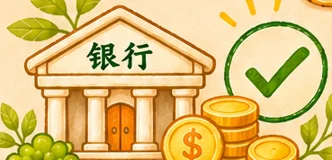
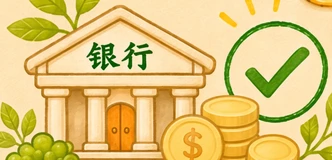
Publish three approved picturebook art refinements

diff --git a/sw.js b/sw.js
@@ -1,4 +1,4 @@
-const CACHE='wealth-life-finance-20261122-saves1';
+const CACHE='wealth-life-picturebook-20261122';
 const ASSETS=["./assets/finance/insurance-illustrations.webp","./assets/career-events-20261116/reserve-reference-header.webp","./assets/career-events-20261116/reserve-option-a.webp","./assets/career-events-20261116/reserve-option-b.webp","./assets/career-events-20261116/bakery-reference-header.webp","./assets/career-events-20261116/bakery-option-a.webp","./assets/career-events-20261116/bakery-option-b.webp","./assets/career-events-20261116/bakery-option-c.webp","./assets/career-events-20261116/partner-bakery-result.webp","./assets/career-events-20261116/bakery-result-pastry.webp","./assets/career-events-20261116/order-a-clock.webp","./assets/career-events-20261116/order-a-badge.webp","./assets/career-events-20261116/order-paper-strip.webp","./assets/career-events-20261116/order-yellow-wash.webp","./assets/career-events-20261116/order-reference-header.webp","./assets/career-events-20261116/order-option-b.webp","./assets/career-events-20261116/order-option-c.webp","./assets/career-events-20261116/machine-option-a.webp","./assets/career-events-20261116/machine-option-b.webp","./assets/career-events-20261116/partner-reserve.webp?v=20261119-painted2","./assets/career-events-20261116/partner-machine.webp?v=20261119-handpainted3","./assets/career-events-20261116/partner-beans.webp?v=20261119-painted2","./assets/career-events-20261116/partner-order.webp?v=20261119-reference6","./assets/career-events-20261116/partner-bakery.webp?v=20261119-painted2","./owner-housing.js?v=2","./etf-market-data.js?v=1", "./etf-market.js?v=2", "./etf-pages.js?v=20261122-finance-saves1", "./etf-pages.css?v=1", "./assets/etf/detail.webp", "./assets/etf/market.webp", "./assets/etf/settings.webp","./assets/bank-loans/receipt.webp", "./assets/bank-loans/repay.webp", "./assets/bank-loans/shortfall.webp","./home-insurance.css?v=20261122-insurance-art2", "./home-insurance.js?v=20261122-finance-saves1", "./assets/home-insurance/branch.webp", "./assets/home-insurance/claim-basic.webp", "./assets/home-insurance/claim-full.webp", "./assets/home-insurance/confirm.webp", "./assets/home-insurance/electrical.webp", "./assets/home-insurance/hail.webp", "./assets/home-insurance/kitchen.webp", "./assets/home-insurance/menu.webp", "./assets/home-insurance/plans.webp", "./assets/home-insurance/policy.webp", "./assets/home-insurance/renter.webp", "./assets/home-insurance/wind.webp","./relationship-avatars.js?v=20261113-avatars1", "./assets/relationships/avatars/manager-female-01.webp", "./assets/relationships/avatars/manager-female-02.webp", "./assets/relationships/avatars/manager-female-03.webp", "./assets/relationships/avatars/manager-female-04.webp", "./assets/relationships/avatars/manager-female-05.webp", "./assets/relationships/avatars/manager-female-06.webp", "./assets/relationships/avatars/manager-male-01.webp", "./assets/relationships/avatars/manager-male-02.webp", "./assets/relationships/avatars/manager-male-03.webp", "./assets/relationships/avatars/manager-male-04.webp", "./assets/relationships/avatars/manager-male-05.webp", "./assets/relationships/avatars/manager-male-06.webp", "./assets/relationships/avatars/coworker-female-01.webp", "./assets/relationships/avatars/coworker-female-02.webp", "./assets/relationships/avatars/coworker-female-03.webp", "./assets/relationships/avatars/coworker-female-04.webp", "./assets/relationships/avatars/coworker-female-05.webp", "./assets/relationships/avatars/coworker-female-06.webp", "./assets/relationships/avatars/coworker-male-01.webp", "./assets/relationships/avatars/coworker-male-02.webp", "./assets/relationships/avatars/coworker-male-03.webp", "./assets/relationships/avatars/coworker-male-04.webp", "./assets/relationships/avatars/coworker-male-05.webp", "./assets/relationships/avatars/coworker-male-06.webp", "./assets/relationships/avatars/classmate-female-01.webp", "./assets/relationships/avatars/classmate-female-02.webp", "./assets/relationships/avatars/classmate-female-03.webp", "./assets/relationships/avatars/classmate-female-04.webp", "./assets/relationships/avatars/classmate-female-05.webp", "./assets/relationships/avatars/classmate-female-06.webp", "./assets/relationships/avatars/classmate-male-01.webp", "./assets/relationships/avatars/classmate-male-02.webp", "./assets/relationships/avatars/classmate-male-03.webp", "./assets/relationships/avatars/classmate-male-04.webp", "./assets/relationships/avatars/classmate-male-05.webp", "./assets/relationships/avatars/classmate-male-06.webp", "./assets/relationships/avatars/petfriend-female-01.webp", "./assets/relationships/avatars/petfriend-female-02.webp", "./assets/relationships/avatars/petfriend-female-03.webp", "./assets/relationships/avatars/petfriend-female-04.webp", "./assets/relationships/avatars/petfriend-female-05.webp", "./assets/relationships/avatars/petfriend-female-06.webp", "./assets/relationships/avatars/petfriend-male-01.webp", "./assets/relationships/avatars/petfriend-male-02.webp", "./assets/relationships/avatars/petfriend-male-03.webp", "./assets/relationships/avatars/petfriend-male-04.webp", "./assets/relationships/avatars/petfriend-male-05.webp", "./assets/relationships/avatars/petfriend-male-06.webp", "./assets/relationships/avatars/landlord-female-01.webp", "./assets/relationships/avatars/landlord-female-02.webp", "./assets/relationships/avatars/landlord-female-03.webp", "./assets/relationships/avatars/landlord-female-04.webp", "./assets/relationships/avatars/landlord-female-05.webp", "./assets/relationships/avatars/landlord-female-06.webp", "./assets/relationships/avatars/landlord-male-01.webp", "./assets/relationships/avatars/landlord-male-02.webp", "./assets/relationships/avatars/landlord-male-03.webp", "./assets/relationships/avatars/landlord-male-04.webp", "./assets/relationships/avatars/landlord-male-05.webp", "./assets/relationships/avatars/landlord-male-06.webp"].concat(["./relationship-pages.css?v=20261113-review1","./relationship-rules.js?v=20261113-review1","./relationship-ui.js?v=20261113-review1","./relationship-life-cards.js?v=20261115-career1", "./relationship-card-data.js?v=20261115-career1", "./relationship-life-ui.js?v=20261121-picturebook1","./assets/relationships/contact-list-20261110.webp","./assets/relationships/contact-detail-20261110.webp","./assets/relationships/manager-experience-20261110.webp","./assets/fonts/MaShanZheng-Regular.ttf","./assets/pets/vet-reminder-dog-20261107.webp","./assets/pets/vet-reminder-cat-20261107.webp","./assets/pets/vet-reminder-tortoise-20261107.webp","./assets/pets/vet-reminder-chameleon-20261107.webp","./assets/pets/vet-reminder-gecko-20261107.webp","./assets/pets/vet-reminder-spider-20261107.webp","./assets/pets/vet-reminder-crocodile-20261107.webp","./pet-insurance.js?v=20261107-petpremium55","./assets/pets/insurance-dog-20261106.webp","./assets/pets/insurance-cat-20261106.webp","./assets/pets/insurance-tortoise-20261106.webp","./assets/pets/insurance-chameleon-20261106.webp","./assets/pets/insurance-gecko-20261106.webp","./assets/pets/insurance-spider-20261106.webp","./assets/pets/insurance-crocodile-20261106.webp","./assets/pets/annual-dog-20261106.webp","./assets/pets/annual-cat-20261106.webp","./assets/pets/annual-tortoise-20261106.webp","./assets/pets/annual-chameleon-20261106.webp","./assets/pets/annual-gecko-20261106.webp","./assets/pets/annual-spider-20261106.webp","./assets/pets/annual-crocodile-20261106.webp","./assets/pets/monthly-fee-20261106.webp","./pet-basic-fees.js?v=20261106-petaudit1","./assets/pets/detail-actions-20261106.webp","./assets/pets/insurance-entry-20261106.webp","./pet-event-cards.js?v=20261107-spider120", "./assets/pets/events/companion-dog-20261105.webp", "./assets/pets/events/dog-unwell-20261106.webp", "./assets/pets/events/dog-social-20261106.webp", "./assets/pets/events/dog-surprise-20261106.webp", "./assets/pets/events/dog-accident-20261106.webp", "./assets/pets/events/companion-cat-20261105.webp", "./assets/pets/events/cat-unwell-20261106.webp", "./assets/pets/events/cat-social-20261106.webp", "./assets/pets/events/cat-surprise-20261106.webp", "./assets/pets/events/cat-accident-20261106.webp", "./assets/pets/events/companion-crocodile-20261105.webp", "./assets/pets/events/crocodile-unwell-20261106.webp", "./assets/pets/events/crocodile-social-20261106.webp", "./assets/pets/events/crocodile-surprise-20261106.webp", "./assets/pets/events/crocodile-accident-20261106.webp", "./assets/pets/events/companion-gecko-20261105.webp", "./assets/pets/events/gecko-unwell-20261106.webp", "./assets/pets/events/gecko-social-20261106.webp", "./assets/pets/events/gecko-surprise-20261106.webp", "./assets/pets/events/gecko-accident-20261106.webp", "./assets/pets/events/companion-spider-20261105.webp", "./assets/pets/events/spider-unwell-20261106.webp", "./assets/pets/events/spider-social-20261106.webp", "./assets/pets/events/spider-surprise-20261106.webp", "./assets/pets/events/spider-accident-20261106.webp", "./assets/pets/events/companion-tortoise-20261105.webp", "./assets/pets/events/tortoise-unwell-20261106.webp", "./assets/pets/events/tortoise-social-20261106.webp", "./assets/pets/events/tortoise-surprise-20261106.webp", "./assets/pets/events/tortoise-accident-20261106.webp", "./assets/pets/events/companion-chameleon-20261105.webp", "./assets/pets/events/chameleon-unwell-20261106.webp", "./assets/pets/events/chameleon-social-20261106.webp", "./assets/pets/events/chameleon-surprise-20261106.webp", "./assets/pets/events/chameleon-accident-20261106.webp"].concat(["./pet-events.js?v=20261120-map-life2", "./pet-events-ui.js?v=20261120-map-life2", "./pet-events.css?v=20261106-pet35", "./assets/pets/events/companion-spider-20261105.webp", "./assets/pets/events/companion-gecko-20261105.webp", "./assets/pets/events/companion-tortoise-20261105.webp", "./assets/pets/events/mishap-20261105.webp", "./assets/pets/events/companion-crocodile-20261105.webp", "./assets/pets/events/companion-cat-20261105.webp", "./assets/pets/events/unwell-20261105.webp", "./assets/pets/events/companion-chameleon-20261105.webp", "./assets/pets/events/social-20261105.webp", "./assets/pets/events/injury-20261105.webp", "./assets/pets/events/companion-dog-20261105.webp"].concat(["./assets/pets/adoption-card-20261105.webp","./assets/pets/adoption-paper-20261105.webp","./assets/home/pet-selection-no-prices-20261105.webp", "./pet-pages.js?v=20261122-insurance-art1", "./pet-pages.css?v=20261113-review1", "./assets/pets/adoption-dog-20261104.webp", "./assets/pets/clean-cat-20261104.webp", "./assets/pets/clean-chameleon-20261104.webp", "./assets/pets/clean-crocodile-20261104.webp", "./assets/pets/clean-dog-20261104.webp", "./assets/pets/clean-gecko-20261104.webp", "./assets/pets/clean-spider-20261104.webp", "./assets/pets/clean-tortoise-20261104.webp", "./assets/pets/detail-20261104.webp", "./assets/pets/overview-20261104.webp", "./assets/pets/success-cat-20261104.webp", "./assets/pets/success-chameleon-20261104.webp", "./assets/pets/success-crocodile-20261104.webp", "./assets/pets/success-dog-20261104.webp", "./assets/pets/success-gecko-20261104.webp", "./assets/pets/success-spider-20261104.webp", "./assets/pets/success-tortoise-20261104.webp"].concat(["./pet-adoption-entry.js?v=20261107-petdeadline1","./pet-adoption-entry.css?v=20261105-petcard2","./assets/home/pet-selection-seven-20261104.webp","./assets/home/family-corgi-20261104.webp","./assets/home/shared-corgi-20261104.webp","./assets/home/studio-corgi-20261104.webp","./assets/home/apartment-corgi-20261104.webp","./apartment-events.js?v=20261104-apartment1", "./assets/apartment/back-20261104.webp", "./assets/apartment/bricks-20261104.webp", "./assets/apartment/clean-20261104.webp", "./assets/apartment/company-20261104.webp", "./assets/apartment/display-20261104.webp", "./assets/apartment/exercise-20261104.webp", "./assets/apartment/flowers-20261104.webp", "./assets/apartment/knock-20261104.webp", "./assets/apartment/lastbus-20261104.webp", "./assets/apartment/lighting-20261104.webp", "./assets/apartment/pajamas-20261104.webp", "./assets/apartment/party-20261104.webp", "./assets/apartment/sing-20261104.webp", "./assets/apartment/spill-20261104.webp"].concat(["./studio-events.js?v=20261103-studio1", "./assets/studio/back-20261103.webp", "./assets/studio/call-20261103.webp", "./assets/studio/cinema-20261103.webp", "./assets/studio/cook-20261103.webp", "./assets/studio/corner-20261103.webp", "./assets/studio/fridge-20261103.webp", "./assets/studio/gaming-20261103.webp", "./assets/studio/keepsake-20261103.webp", "./assets/studio/keys-20261103.webp", "./assets/studio/morning-20261103.webp", "./assets/studio/noise-20261103.webp", "./assets/studio/rain-20261103.webp", "./assets/studio/tea-20261103.webp"].concat(["./assets/shared/back-20261102.webp","./assets/shared/toolbox-shop-20261102.webp","./assets/shared/toolbox-neighbor-20261102.webp","./assets/shared/chat-night-20261102.webp","./assets/shared/meal-love-20261102.webp","./assets/shared/ride-b4-20261102.webp","./housing-time-debt.js?v=20261104-apartment1","./shared-events.js?v=20261102-toolbox1", "./assets/shared/chat-20261102.webp", "./assets/shared/clean-20261102.webp", "./assets/shared/cook-20261102.webp", "./assets/shared/games-20261102.webp", "./assets/shared/guest-20261102.webp", "./assets/shared/leak-20261102.webp", "./assets/shared/meal-20261102.webp", "./assets/shared/movie-20261102.webp", "./assets/shared/noise-20261102.webp", "./assets/shared/quilt-20261102.webp", "./assets/shared/ride-20261102.webp", "./assets/shared/toolbox-20261102.webp"].concat(["./family-events.js?v=20261102-family2","./family-home.js?v=20261115-career1","./family-home.css?v=20261104-apartment1","./assets/family/back-20261102.webp","./assets/family/background-20261102.webp","./assets/family/blessing-20261102.webp","./assets/family/care-20261102.webp","./assets/family/dinner-20261102.webp","./assets/family/disagreement-20261102.webp","./assets/family/flowers-20261102.webp","./assets/family/fridge-20261102.webp","./assets/family/lamplight-20261102.webp","./assets/family/love-20261102.webp","./assets/family/memories-20261102.webp","./assets/family/movie-20261102.webp","./assets/family/portrait-20261102.webp","./assets/family/teacher-20261102.webp","./housing-bills.js?v=20261119-sale1", "./assets/pages/studio-reservation-1400-20261101.webp", "./assets/pages/studio-occupied-1400-20261101.webp", "./assets/pages/shared-reservation-900-20261101.webp", "./assets/pages/shared-occupied-900-20261101.webp", "./assets/pages/one-bedroom-reservation-1600-20261101.webp", "./assets/pages/one-bedroom-occupied-1600-20261101.webp", "./assets/pages/family-occupied-500-20261101.webp", "./assets/pages/life-monthly-bill-20261101.webp","./career-selection.js?v=20261101", "./career-selection.css?v=20261101", "./painted-pages.js?v=20261119-sale1", "./painted-pages.css?v=20261118-owner1", "./assets/career/barista-character-20261101.webp", "./assets/pages/rest-20261101.webp", "./assets/pages/life-20261101.webp", "./assets/pages/housing-20261101.webp", "./assets/pages/family-20261101.webp","./room.js?v=20261120-etf-receipt1","./room.css?v=20261117-room-corgi1","./assets/home/room-phone-20261101.webp","./release-info.js?v=28.3-internal1","./financial-crisis.js?v=20261122-finance-saves1","./four-state.js?v=28.3-internal1","./rest-state.js?v=20261112-direct-rest1","./coffee-salary.js?v=20261119-equity1","./housing-lease.js?v=20261104-housingsave1","./pet-health.js?v=20261107-petdeadline1","./pet-care.js?v=20261113-review1","./necessary-bills.js?v=20261107-petvet1","./recovery-ui.js?v=28.3-internal1","./medical-insurance.js?v=20261122-finance-saves1","./recovery-rules.js?v=28.3-internal1","./time-ledger.js?v=28.3-internal1","./time-flow.js?v=20261122-finance-saves1","./assets/career/town.webp","./coffee-career.js?v=20261119-equity1", "./assets/career/barista-staff.webp", "./assets/career/barista-busy.webp", "./assets/career/barista-cut.webp", "./assets/career/barista-tip.webp", "./assets/career/barista-departure.webp", "./assets/career/shift-training.webp", "./assets/career/shift-schedule.webp", "./assets/career/shift-schedule-success.webp", "./assets/career/shift-schedule-failure.webp", "./assets/career/shift-complaint.webp", "./assets/career/shift-complaint-success.webp", "./assets/career/shift-complaint-failure.webp", "./assets/career/shift-acting.webp", "./assets/career/shift-acting-success.webp", "./assets/career/shift-acting-failure.webp", "./assets/career/shift-praise.webp", "./assets/career/intro-confirmed-20261101.webp"] .concat(["./shift-lead.js?v=20261119-equity1","./shift-lead.css?v=28.3-internal1","./paper.css?v=28.3-intro-20261101",'./coffee.js?v=20261119-career-fixes1','./town.js?v=20261121-audit1','./','./index.html','./core.js','./flow.js?v=20261122-finance-saves1','./journey.js?v=20261121-copy1','./batch.js?v=20261122-finance-saves1','./revision.js?v=20261122-finance-saves1','./annual.js?v=20261122-finance-saves1','./core.js?v=20261122-finance-saves1','./presentation.js?v=20261122-finance-saves1','./presentation.css?v=20261122-finance-review1','./city.svg','./manifest.webmanifest','./icons/icon-192.png','./icons/icon-512.png']))))))));
 ASSETS.push('./fund-pages.css?v=4','./fund-pages.js?v=20261121-copy1','./assets/finance/fund-paper.webp');
 ASSETS.push(...['market','holdings','position','add','reduce','all','plaque','leaf'].map(name=>'./assets/finance/fund-approved/'+name+'.webp'));
